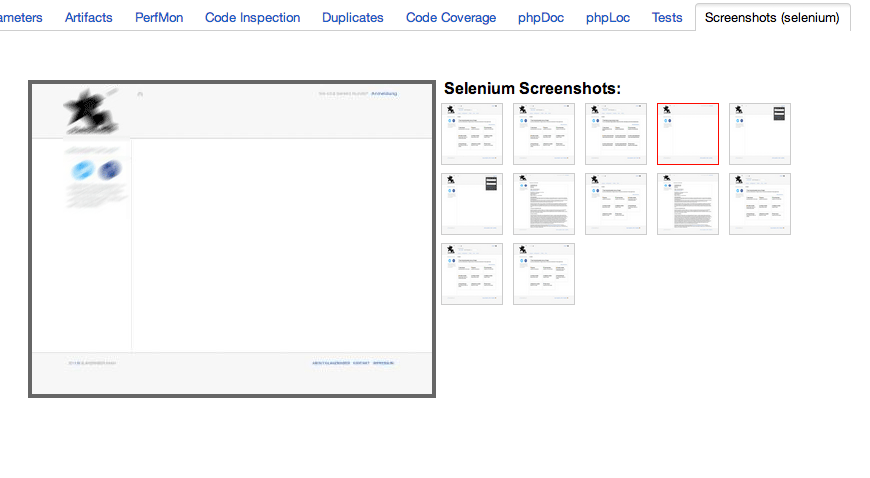
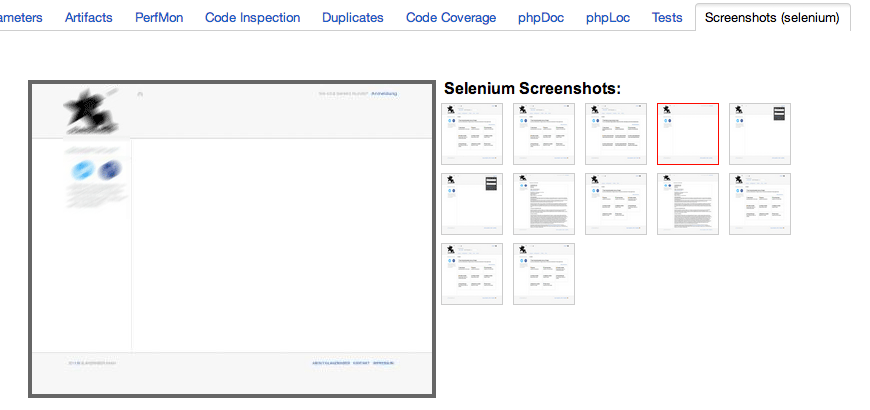
Modified screenshots and added screenshot description

diff --git a/README.md b/README.md
@@ -11,7 +11,7 @@ PHPUnit - php extension to generate a offline HTML-Gallery for selenium Screensh
 
 ## Screenshots
 
-overview with menu and detail view
+### overview with menu and detail view
 ![ScreenShot](https://raw2.github.com/linslin/PHPUnit-selenium-HTMLGallery/development/art/screen1.png)
 
 comes with zoom function to check pixels ;)
